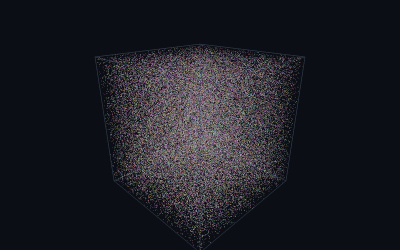
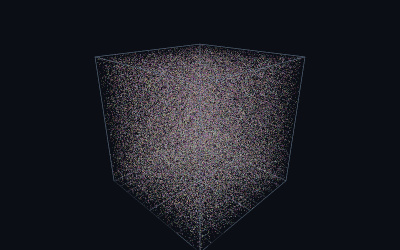
Examples: Raw shader boids: floor grid and brighter edges so orbiting reads, predator paused while dragging.
A dense flock looks the same from every angle; the floor grid and the
brighter cube edges give the orbit camera something to move against. A
drag steers the camera, so the pointer predator stays away during it and
follows the pointer only when it moves freely.

diff --git a/examples/webgpu_rawshader_boids.html b/examples/webgpu_rawshader_boids.html
@@ -305,6 +305,7 @@
 			const clock = new THREE.Clock();
 			const pointer = new THREE.Vector2( 10, 10 ); // off screen until the pointer moves
 			const raycaster = new THREE.Raycaster();
+			let dragging = false; // while a drag steers the camera, the predator stays away
 
 			init();
 
@@ -325,8 +326,12 @@
 
 				setCameraMode( settings.camera );
 
-				const box = new THREE.LineSegments( new THREE.EdgesGeometry( new THREE.BoxGeometry( 2, 2, 2 ) ), new THREE.LineBasicNodeMaterial( { color: 0x33404f } ) );
+				const box = new THREE.LineSegments( new THREE.EdgesGeometry( new THREE.BoxGeometry( 2, 2, 2 ) ), new THREE.LineBasicNodeMaterial( { color: 0x5a6b80 } ) );
 				scene.add( box );
+
+				const floor = new THREE.GridHelper( 2, 10, 0x5a6b80, 0x2a3442 );
+				floor.position.y = - 1;
+				scene.add( floor );
 
 				createFlock( settings.count );
 
@@ -346,6 +351,8 @@
 				} );
 
 				renderer.domElement.addEventListener( 'pointermove', onPointerMove );
+				renderer.domElement.addEventListener( 'pointerdown', () => dragging = true );
+				window.addEventListener( 'pointerup', () => dragging = false );
 				window.addEventListener( 'resize', onWindowResize );
 
 				renderer.setAnimationLoop( animate );
@@ -572,7 +579,7 @@
 				const { simParams } = flock;
 				simParams.deltaTime.value = deltaTime;
 
-				raycaster.setFromCamera( pointer, camera );
+				raycaster.setFromCamera( dragging ? new THREE.Vector2( 10, 10 ) : pointer, camera );
 				simParams.rayOrigin.value.copy( raycaster.ray.origin ).multiplyScalar( BOUNDS_HALF );
 				simParams.rayDirection.value.copy( raycaster.ray.direction );
 
